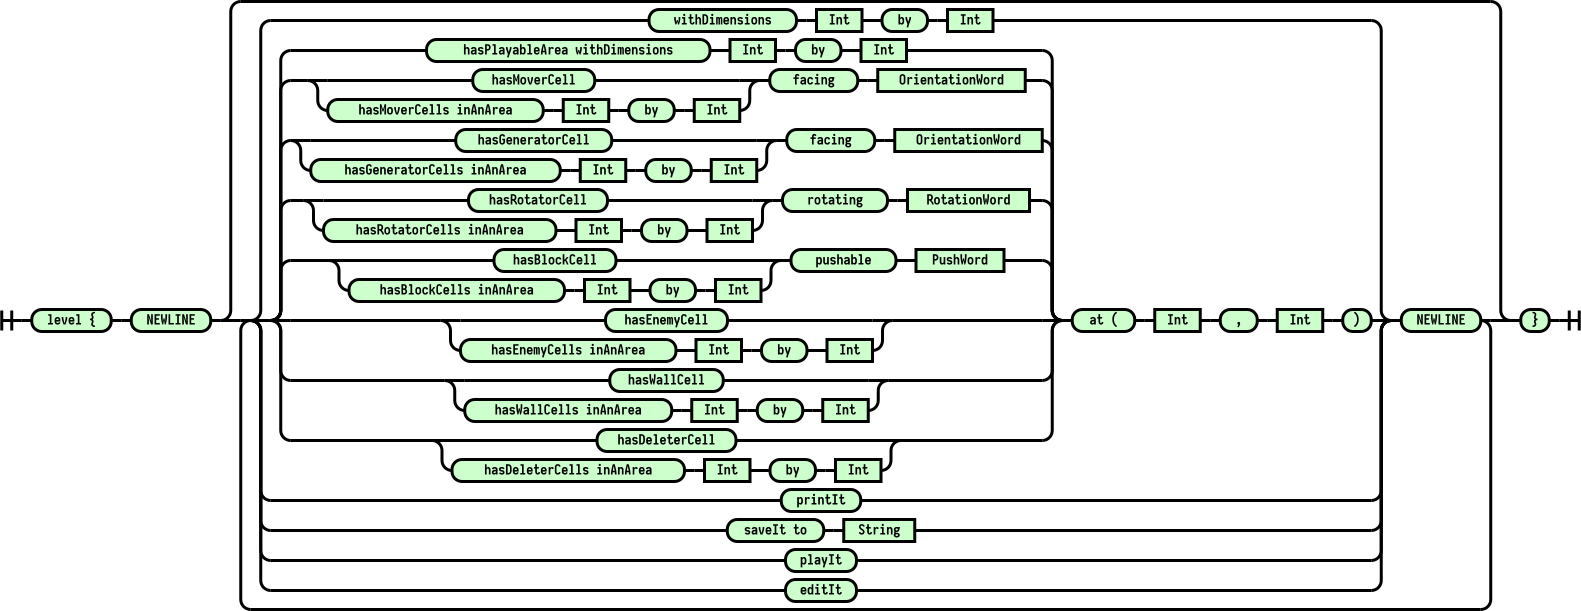
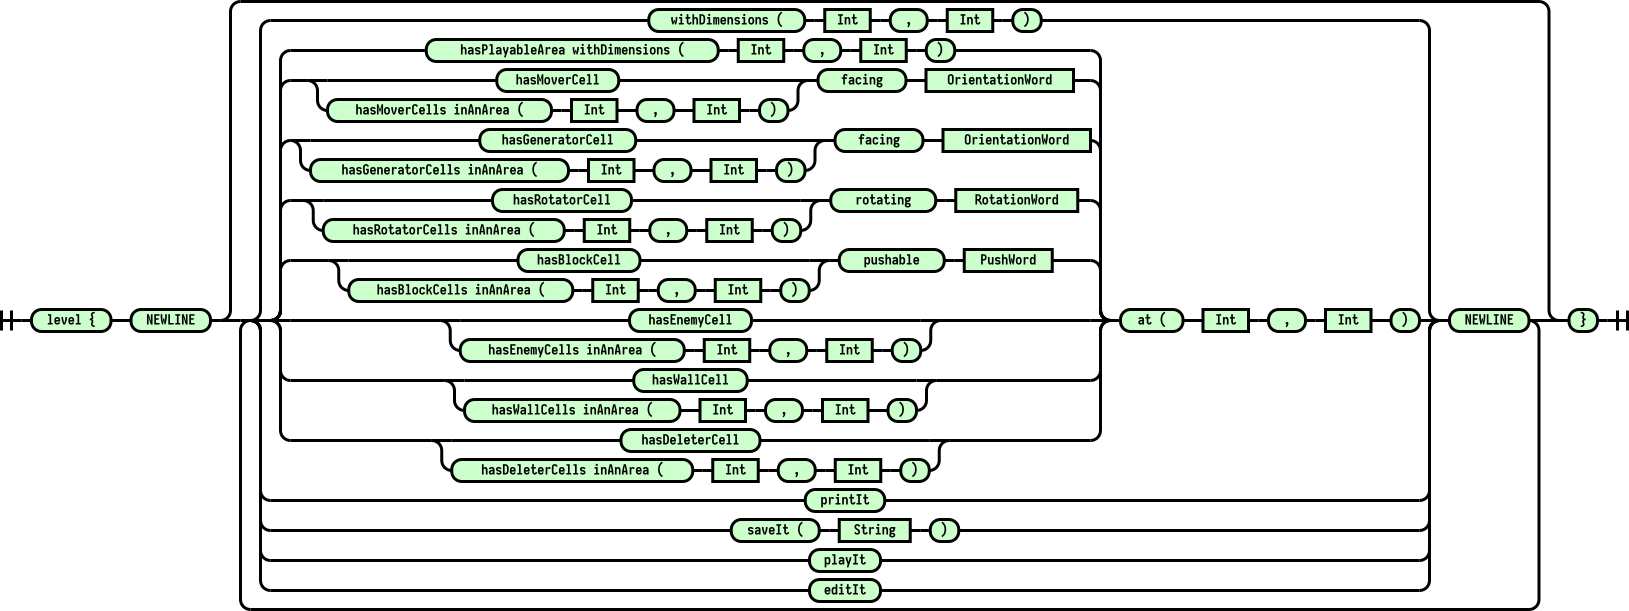
Fix DSL grammar, change syntax diagram accordingly

Changed region(s): [[0.0, 0.0, 1.0, 1.0]]

diff --git a/report/03_design.md b/report/03_design.md
@@ -41,12 +41,12 @@ Dalle specifiche precedentemente descritte sul DSL, si è deciso di costruire un
 		& | & ``hasDeleterCell'', AtWord & \label{prod:15} \\
 		& | & ``hasDeleterCells '', InAnAreaWord, AtWord & \label{prod:16} \\
 		& | & ``printIt'' & \label{prod:17} \\
-		& | & ``saveIt to '', String & \label{prod:18} \\
+		& | & ``saveIt ('', String, ``)'' & \label{prod:18} \\
 		& | & ``playIt'' & \label{prod:19} \\
 		& | & ``editIt''; & \label{prod:20} \\
-		\multicolumn{4}{l}{WithDimensionsWord = ``withDimensions '', Int, `` by '', Int;} \\
-		\multicolumn{4}{l}{AtWord = `` at ('', Int, ``, '', Int, ``)";} \\
-		\multicolumn{4}{l}{InAnAreaWord = ``inAnArea '', Int, `` by ", Int;} \\
+		\multicolumn{4}{l}{WithDimensionsWord = ``withDimensions ('', Int, ``, '', Int, ``)'';} \\
+		\multicolumn{4}{l}{AtWord = `` at ('', Int, ``, '', Int, ``)'';} \\
+		\multicolumn{4}{l}{InAnAreaWord = ``inAnArea ('', Int, ``, '', Int, ``)'';} \\
 		\multicolumn{4}{l}{OrientationWord = ``right'' | ``left'' | ``top'' | ``bottom'';} \\
 		\multicolumn{4}{l}{RotationWord = ``clockwise'' | ``counterclockwise'';} \\
 		\multicolumn{4}{l}{PushWord = ``vertically'' | ``horizontally'' | ``inBothDirections'';} \\
